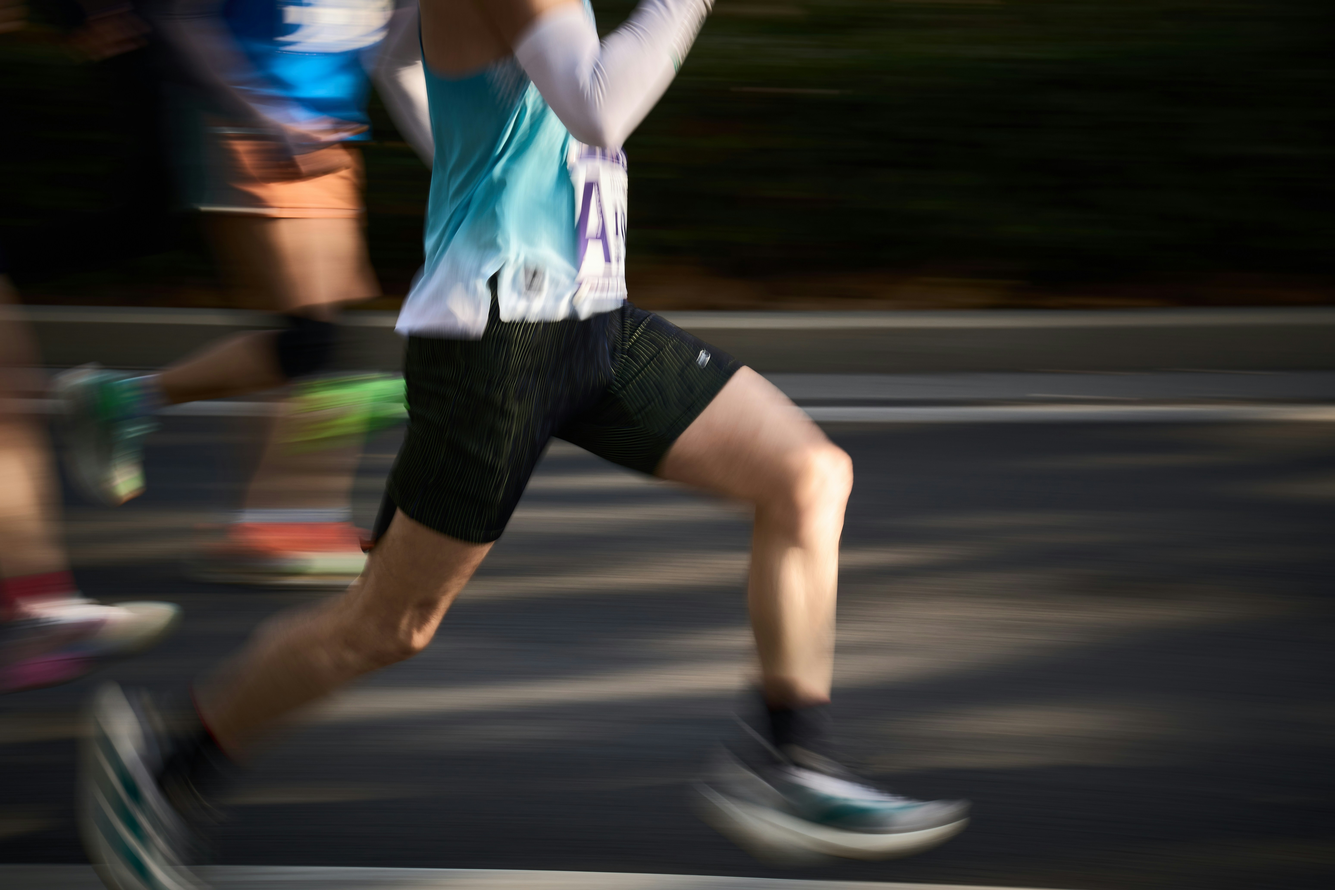
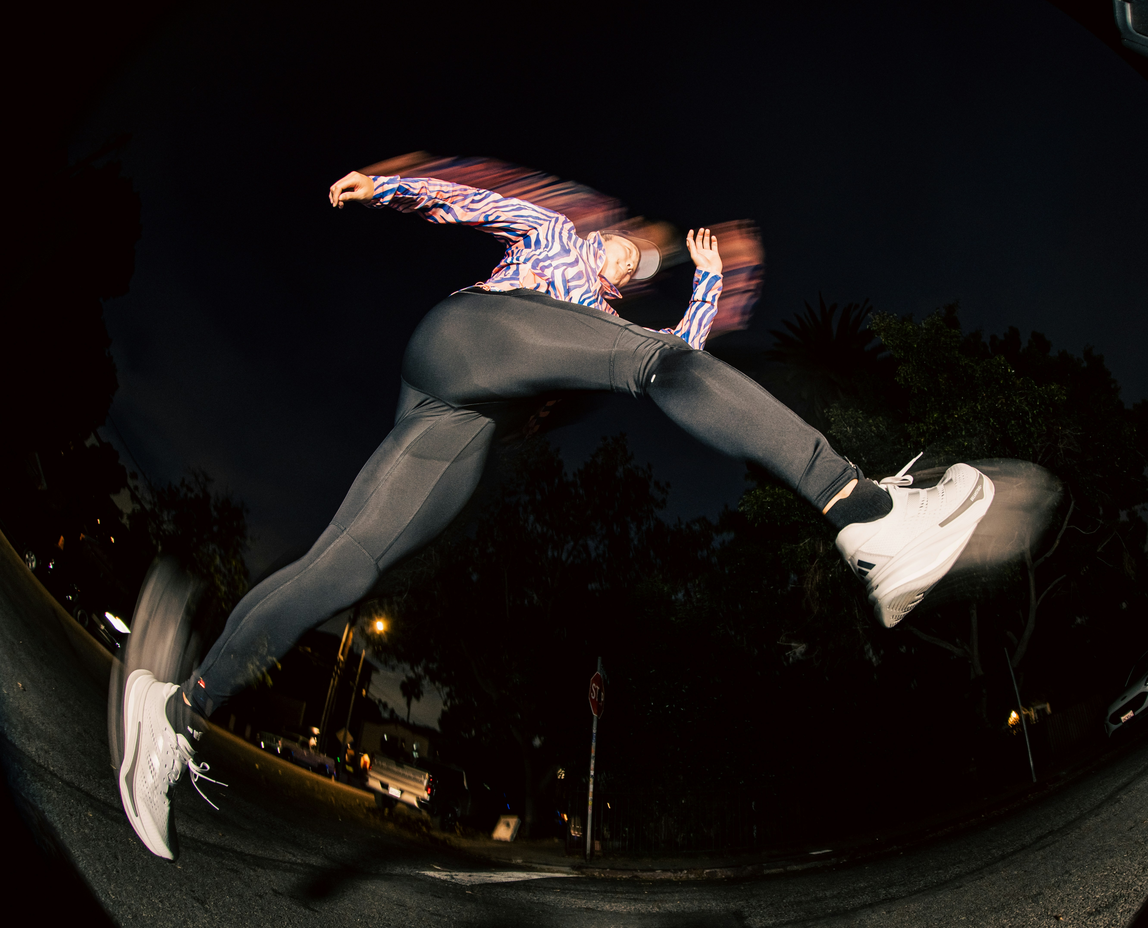
redesign of the hero section

diff --git a/components/sections/HeroSection.tsx b/components/sections/HeroSection.tsx
@@ -1,11 +1,13 @@
 "use client";
 
 import { useRef } from "react";
+
 import { m, useScroll, useTransform } from "framer-motion";
-import Image from "next/image";
-import heroImage from "../../public/photos/home/hero-image.jpg";
-import heroMiniImage from "../../public/photos/home/hero-mini-image.jpg";
+
 import PrimaryButton from "../buttons/PrimaryButton";
+import { PiStarFourFill } from "react-icons/pi";
+import Image from "next/image";
+import heroImage from "../../public/photos/home/hero-image.webp";
 
 const HeroSection = () => {
   const containerRef = useRef(null);
@@ -21,26 +23,17 @@ const HeroSection = () => {
           <div className="flex flex-col justify-end">
             <m.div
               style={{ y }}
-              className="flex flex-col-reverse lg:flex-col lg:justify-between min-h-screen pb-16 pt-44 lg:pt-64 gap-8 lg:gap-36"
+              className="flex items-end justify-between min-h-screen pb-16 pt-44 lg:pt-64"
             >
-              <div className="flex flex-col lg:flex-row items-start justify-between gap-8 lg:gap-24">
-                <p className="text-background/80 text-lg max-w-[460px]">
+              <div className="">
+                <h1 className="text-background max-[355px]:text-4xl max-[510px]:text-5xl text-6xl md:text-7xl xl:text-8xl pb-8">
+                  Train Smarter <br /> with AI Precision
+                </h1>
+                <p className="text-background/80 text-lg max-w-[560px]">
                   AI-driven tracking meets real-time coaching, giving you the
                   clarity and guidance you need to improve every session.
                 </p>
-                <div className="max-w-[225px] max-lg:hidden">
-                  <p className="text-background/80 text-lg pb-6">
-                    Breakthrough growth built on insight.
-                  </p>
-                  <Image
-                    src={heroMiniImage}
-                    alt="hero image"
-                    width={300}
-                    height={300}
-                    className="w-full h-auto object-cover"
-                  />
-                </div>
-                <div className="block lg:hidden">
+                <div className="w-fit pt-12">
                   <PrimaryButton
                     title="Join the waitlist"
                     url="/"
@@ -48,9 +41,30 @@ const HeroSection = () => {
                   />
                 </div>
               </div>
-              <h1 className="text-background max-[355px]:text-4xl max-[510px]:text-5xl text-6xl md:text-7xl lg:text-8xl xl:text-9xl">
-                Train Smarter <br /> with AI Precision
-              </h1>
+              <div className="flex flex-col gap-1.5 max-lg:hidden">
+                <div className="grid grid-cols-12 gap-1.5">
+                  <div className="bg-accent rounded-md col-span-9 flex items-center px-4">
+                    <p className="text-xl font-medium text-dark">Fun Facts</p>
+                  </div>
+                  <div className="flex items-center justify-center bg-accent col-span-3 rounded-md p-4">
+                    <PiStarFourFill className="text-base text-dark" />
+                  </div>
+                </div>
+                <div className="bg-background rounded-lg px-4 py-6">
+                  <h6 className="text-2xl text-dark font-medium pb-2">
+                    1,200+
+                  </h6>
+                  <p className="text-dark/80 text-base">
+                    Clients around the world
+                  </p>
+                </div>
+                <div className="bg-background rounded-lg p-3">
+                  <h6 className="text-2xl text-dark font-medium pb-2">95%</h6>
+                  <p className="text-dark/80 text-base">
+                    Client satisfaction rate
+                  </p>
+                </div>
+              </div>
             </m.div>
           </div>
         </div>

diff --git a/components/Navbar.tsx b/components/Navbar.tsx
@@ -24,7 +24,7 @@ const Navbar = () => {
   return (
     <>
       <nav
-        className={`absolute top-0 left-0 w-full z-50 py-8 border-b border-border/10  transition-colors duration-300 ${isOpen && "bg-background"}`}
+        className={`absolute top-0 left-0 w-full z-50 py-8 border-b border-border/20  transition-colors duration-300 ${isOpen && "bg-background"}`}
       >
         <div className="container mx-auto px-6">
           <div className="flex items-center justify-between gap-10">
